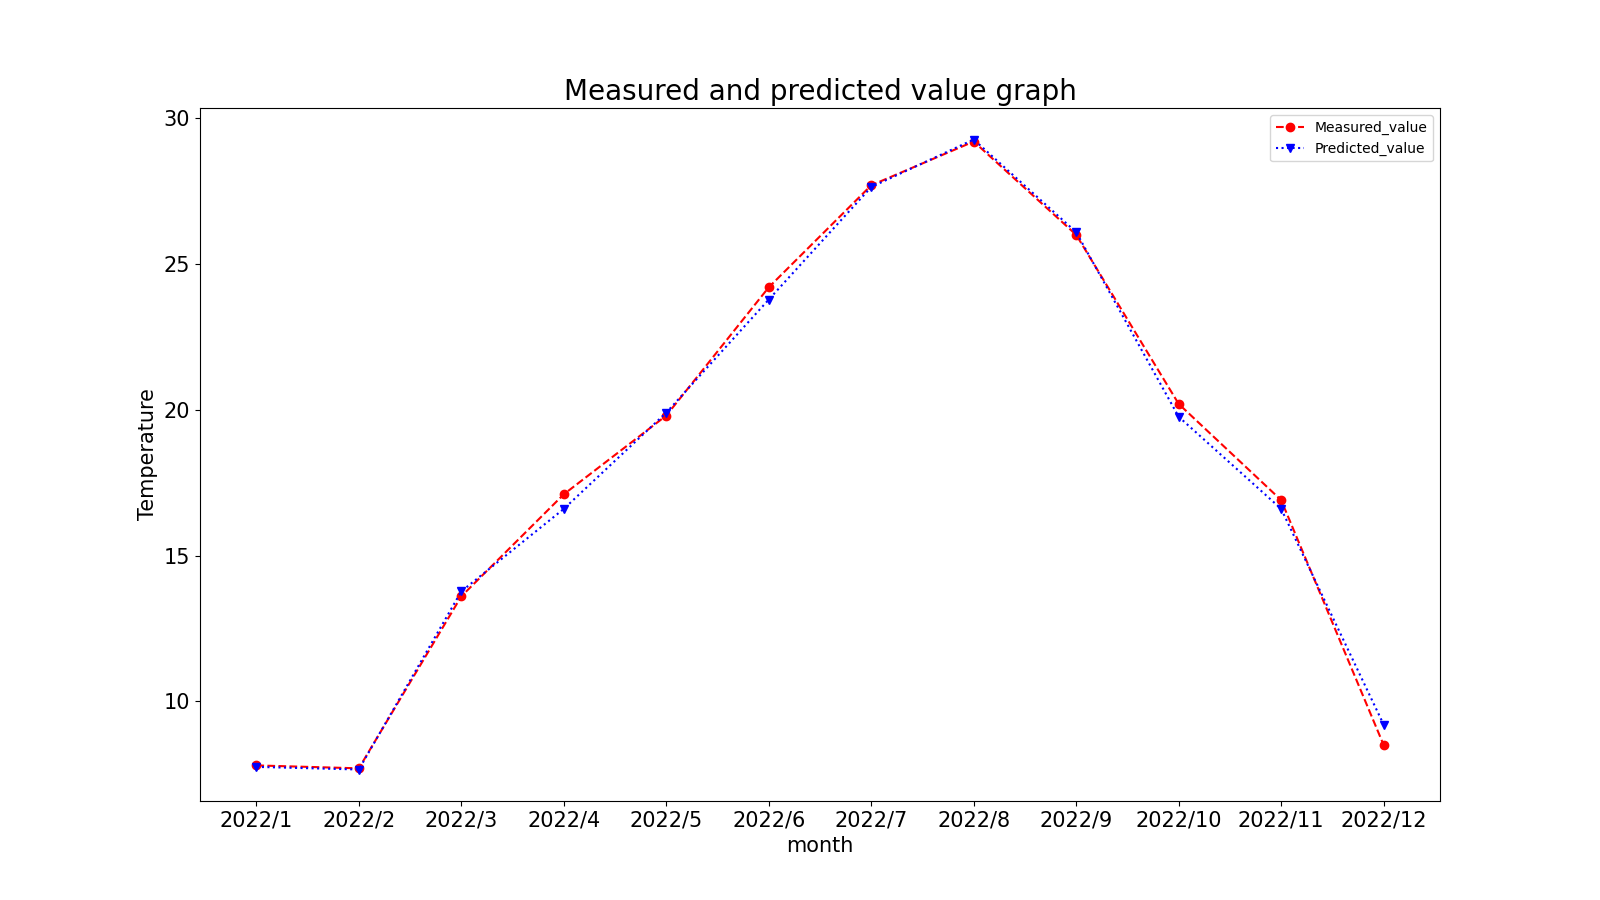
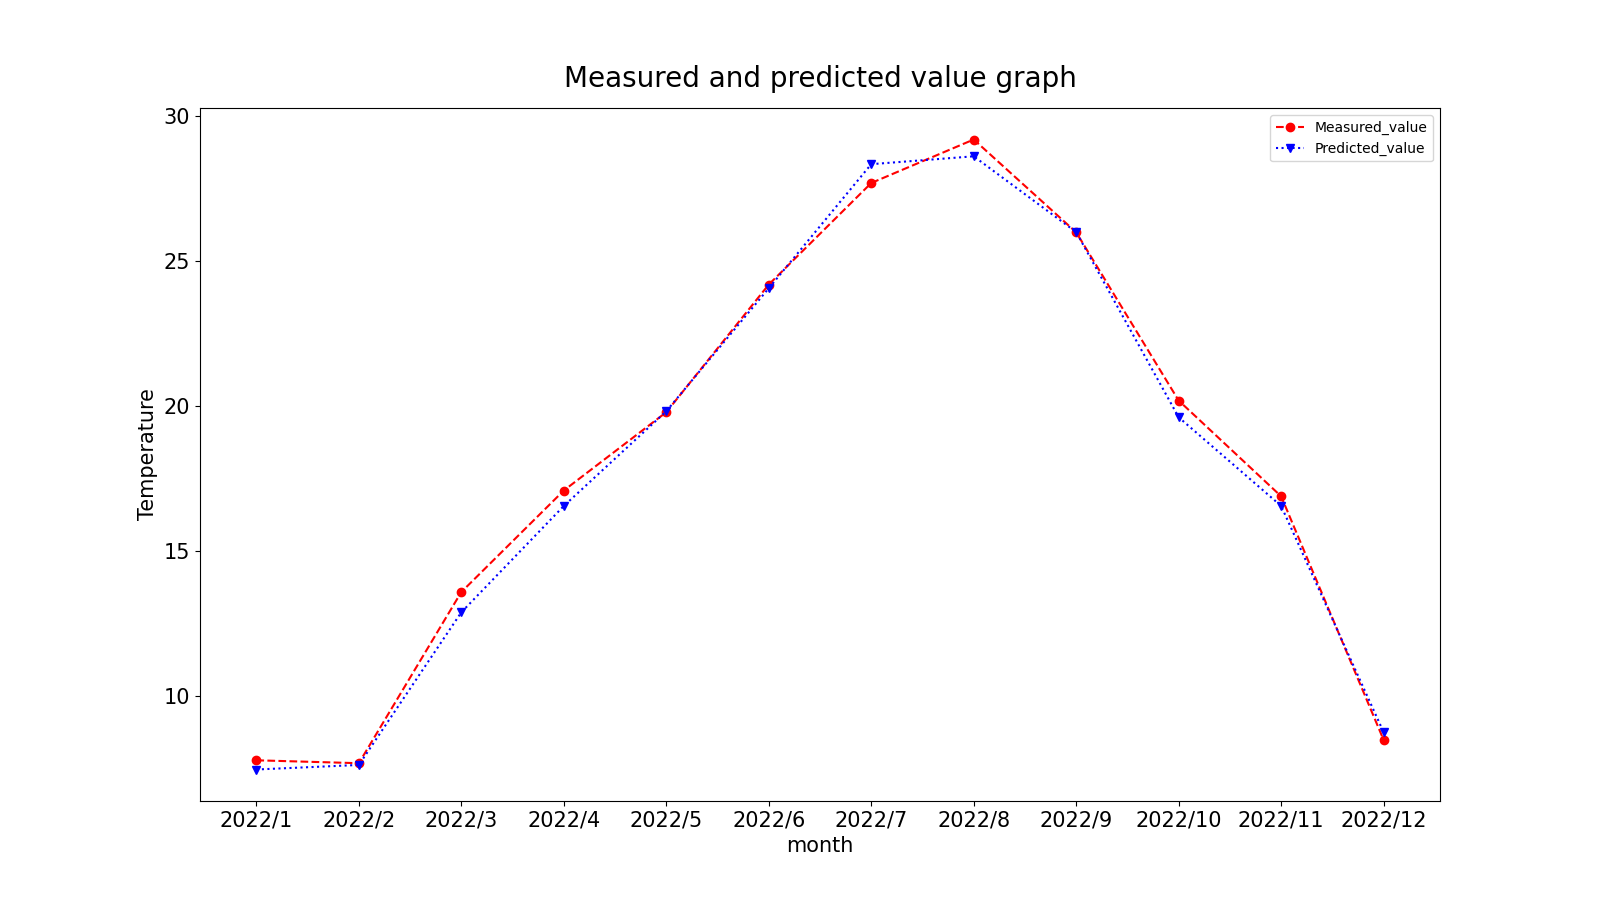
add parameters

diff --git a/Predict.py b/Predict.py
@@ -67,7 +67,13 @@ test_x = df_test.drop('平均気温(℃)', axis=1)
 test_y = df_test['平均気温(℃)']
 
 
-random_forest = RFR(max_depth=30, n_estimators=10, random_state=42)
+random_forest = RFR(
+    n_estimators = 15,
+    random_state = 42,
+    n_jobs = 1,
+    min_samples_split = 10,
+    max_depth = 10,
+)
 random_forest.fit(train_x, train_y)
 
 from sklearn.metrics import mean_squared_error

diff --git a/README.md b/README.md
@@ -7,19 +7,18 @@ As a consideration, it is considered that accurate predictions were made without
 ![result](result.png)
 
 ## About learning
-For the purpose of predicting the average temperature in Miyazaki, data from eight regions were trained: the eight regions are Sapporo, Sendai, Tokyo, Nagoya, Osaka, Hiroshima, Fukuoka and Okinawa. The objective variable is the average temperature. The explanatory variables are mean temperature (°C), mean daily maximum temperature (°C), mean daily minimum temperature (°C), total precipitation (mm), total precipitation (mm), maximum daily precipitation (mm), sunshine hours (hours), deepest snow cover (cm), deepest snow cover (cm), total snowfall (cm), mean wind speed (m/s), mean vapour pressure (hPa), average Average humidity (%), Average cloud cover (10-minute ratio).
-
-
-## The data used
-For data, you can download the data from [this page](https://www.data.jma.go.jp/gmd/risk/obsdl/index.php)of the　[Japan Meteorological Agency](https://www.jma.go.jp/jma/index.html).
-
+For the purpose of predicting the average temperature in Miyazaki, data from eight regions were trained: the eight regions are Sapporo, Sendai, Tokyo, Nagoya, Osaka, Hiroshima, Fukuoka and Okinawa. The objective variable is the average temperature. The explanatory variables are mean temperature (°C), mean daily maximum temperature (°C), mean daily minimum temperature (°C), total precipitation (mm), total precipitation (mm), maximum daily precipitation (mm), sunshine hours (hours), deepest snow cover (cm), deepest snow cover (cm), total snowfall (cm), mean wind speed (m/s), mean vapour pressure (hPa), average Average humidity (%), Average cloud cover (10-minute ratio).The parameters for the random forest were n_estimators = 15,random_state = 42,n_jobs = 1,min_samples_split = 10,max_depth = 10.The evaluation methods used are RSME and R^2.
 
 ## Learning procedure
 Download data from the JMA. Put the data to be used as training in the directory [Train_data](Train_data). Put the data to be tested in the [Test_data](Test_data) directory. As you will be referring to these directories from the programme, it is advisable to download the data with the same objective and explanatory variables.
 
 
+## The data used
+For data, you can download the data from [this page](https://www.data.jma.go.jp/gmd/risk/obsdl/index.php)of the [Japan Meteorological Agency](https://www.jma.go.jp/jma/index.html).On the data download screen, first select the region for the study data in the "Select a location" section. Then, in the "Select an item" section, under the temperature tab, select the monthly average temperature, the monthly average of daily maximum temperature and the monthly average of daily minimum temperature. Then, under the precipitation tab, select the monthly total of precipitation and the monthly maximum of daily precipitation. Select the monthly total of sunshine hours from the sunshine/sunshine tab. Select the monthly total for monthly deepest snowfall and monthly maximum snowfall from the snow cover/snowfall tab. Select the monthly average wind speed from the Wind tab. Select the monthly average vapour pressure and monthly average relative humidity from the humidity/barometric tab. Select the monthly average cloud cover from the cloud cover/weather tab." Under "Select a period of time", select "Display over a continuous period of time" and then select the period of time for the person." In the "Choose display options" section, leave the default display screen as it is.
+Select multiple study data. At this point, select and download each of them one by one in the "Select a location" field. Then put the files in the Train_data directory. For the test data, also select one and put it in the Test_data directory.Please note that the data must be entered separately for each region, otherwise they cannot be combined.
+
 
 ## Rights.
-Source: the Meteorological Office (https://www.data.jma.go.jp/gmd/risk/obsdl/index.php)
+- Source: the Meteorological Office (https://www.data.jma.go.jp/gmd/risk/obsdl/index.php)
 
-This graph was produced under my responsibility.
+- This graph was produced under my responsibility.
